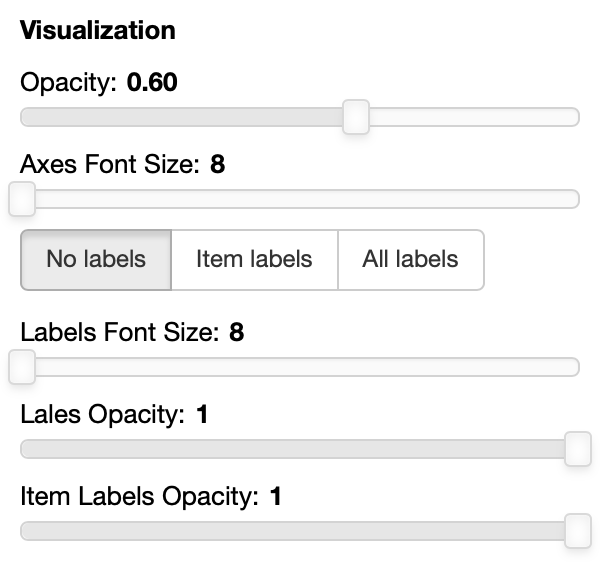
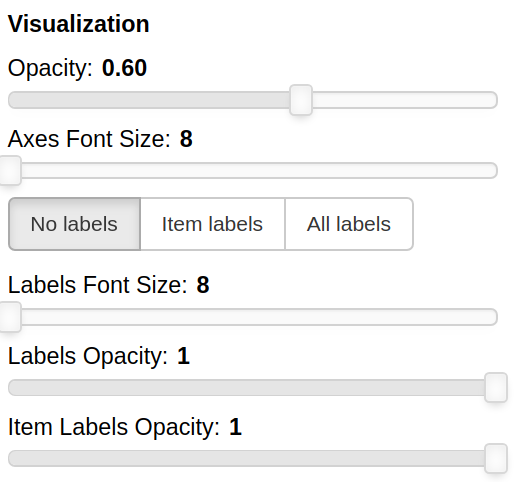
Fixed typo

diff --git a/cartesian.py b/cartesian.py
@@ -209,7 +209,7 @@ if args.labels:
         active=0)
     labels_font_size = Slider(title="Labels Font Size", value=8, start=8,
                               end=32)
-    labels_opacity = Slider(title="Lales Opacity", value=1, start=0, end=1,
+    labels_opacity = Slider(title="Labels Opacity", value=1, start=0, end=1,
                             step=0.01)
     labels_items_opacity = Slider(title="Item Labels Opacity", value=1, start=0,
                                   end=1, step=0.01)
